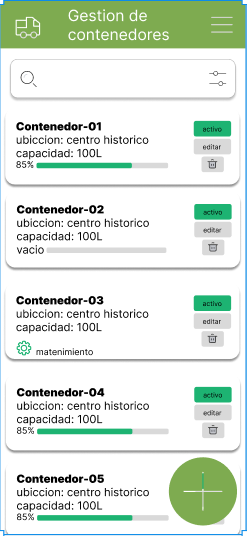
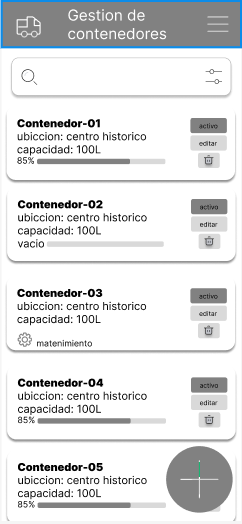
imagenes de los mockups

diff --git a/README.md b/README.md
@@ -328,6 +328,80 @@ Los wireframes son representaciones de baja o media fidelidad que muestran la es
 
 Los mockups son diseños de alta fidelidad que muestran la apariencia visual final de la aplicación. Incluyen colores, tipografías, íconos, estilos y componentes reales. Permiten visualizar cómo se verá la app antes de programarla.
 
+* Splash Screen
+  
+![Splash Screen](Prototipos/MovilMP/Frontend/Mockups/Splash_Screen.png)
+
+
+* Registro de Usuario.
+  
+![RegistroUsuario.jpeg](Prototipos/MovilMP/Frontend/Mockups/Registro_Usuario.png)
+
+
+* Predición de Eficiencia
+  
+![Predición de Eficiencia](Prototipos/MovilMP/Frontend/Mockups/PrediciónEficiencia.png)
+
+
+* Mapa
+  
+![Mapa](Prototipos/MovilMP/Frontend/Mockups/Mapa.png)
+
+
+* Login Screen
+  
+![Login Screen](Prototipos/MovilMP/Frontend/Mockups/Login_Screen.png)
+
+
+* LoadingScreen
+  
+![LoadingScreen](Prototipos/MovilMP/Frontend/Mockups/Loading_Screen.png)
+
+
+* Historial de Lecturas
+  
+![Historial de Lecturas](Prototipos/MovilMP/Frontend/Mockups/Historial_Lecturas.png)
+
+
+* Gestion de Sensores
+  
+![Gestion de Sensores](Prototipos/MovilMP/Frontend/Mockups/GestionSensores.png)
+
+
+* Gestión de Rutas
+  
+![Gestión de Rutas](Prototipos/MovilMP/Frontend/Mockups/gestion_rutas.png)
+
+
+* Gestión de Contenedores
+  
+![Gestión de Contenedores](Prototipos/MovilMP/Frontend/Mockups/GestionContenedores.png)
+
+
+* Detalle de ruta
+  
+![Detalle de ruta](Prototipos/MovilMP/Frontend/Mockups/detalle_ruta.png)
+
+
+* Detalle de Contenedor
+  
+![Detalle de Contenedor](Prototipos/MovilMP/Frontend/Mockups/detalle_contenedor.PNG)
+
+
+* Dashboard Principal
+  
+![Dashboard Principal](Prototipos/MovilMP/Frontend/Mockups/dashboard.PNG)
+
+
+* Bitacora de Recoleción
+  
+![Bitacora de Recoleción](Prototipos/MovilMP/Frontend/Mockups/Bitacora_de_recoleccion.PNG)
+
+
+* About Us (Acerca de SmartWaste)
+  
+![About Us (Acerca de SmartWaste)](Prototipos/MovilMP/Frontend/Mockups/acerca_de_nosotros.PNG)
+
 
 ---
 
